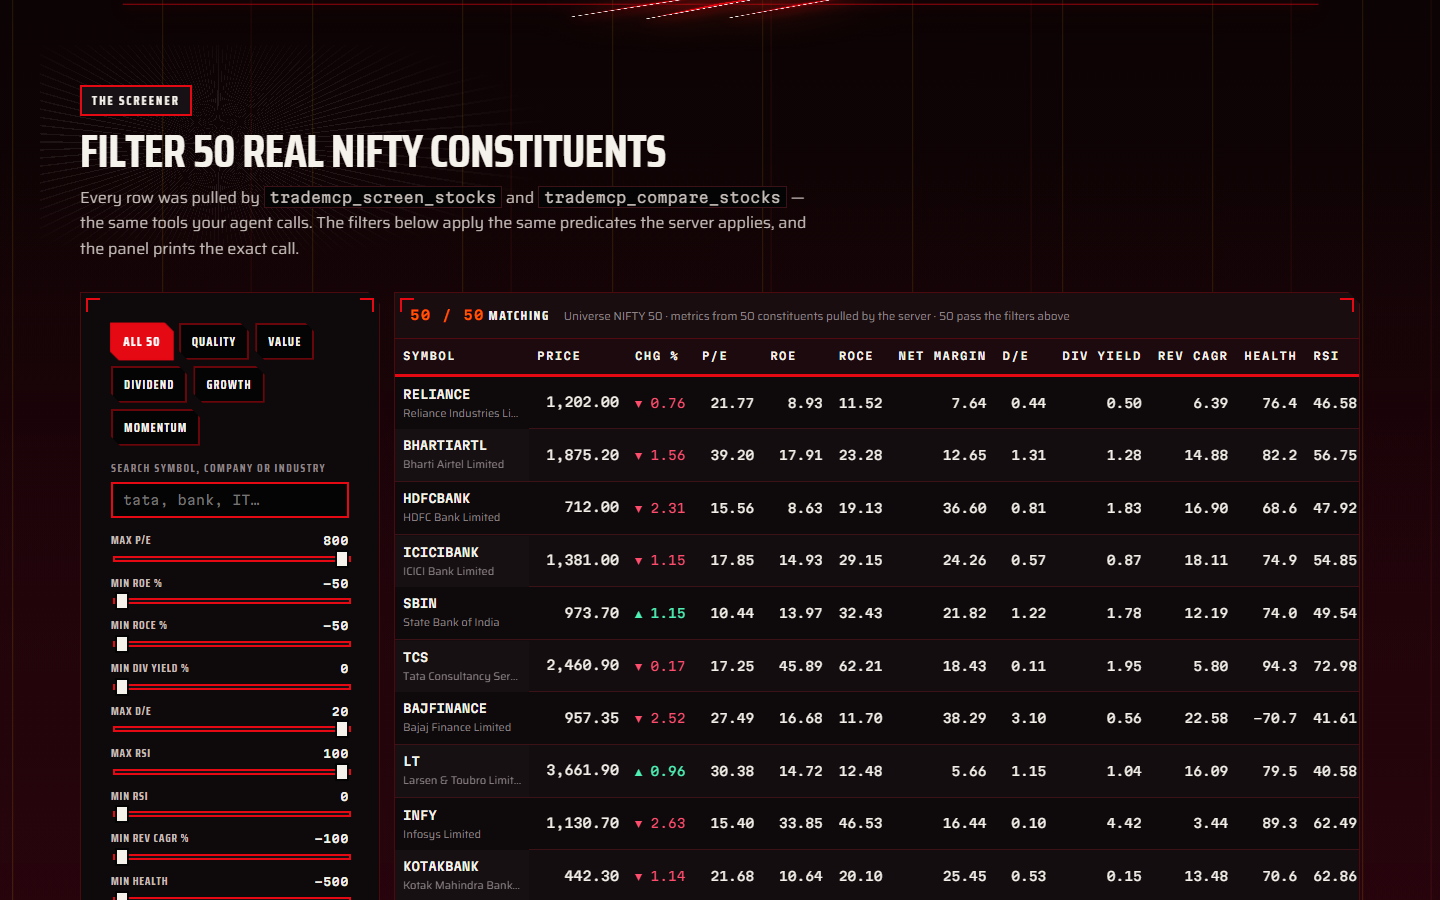
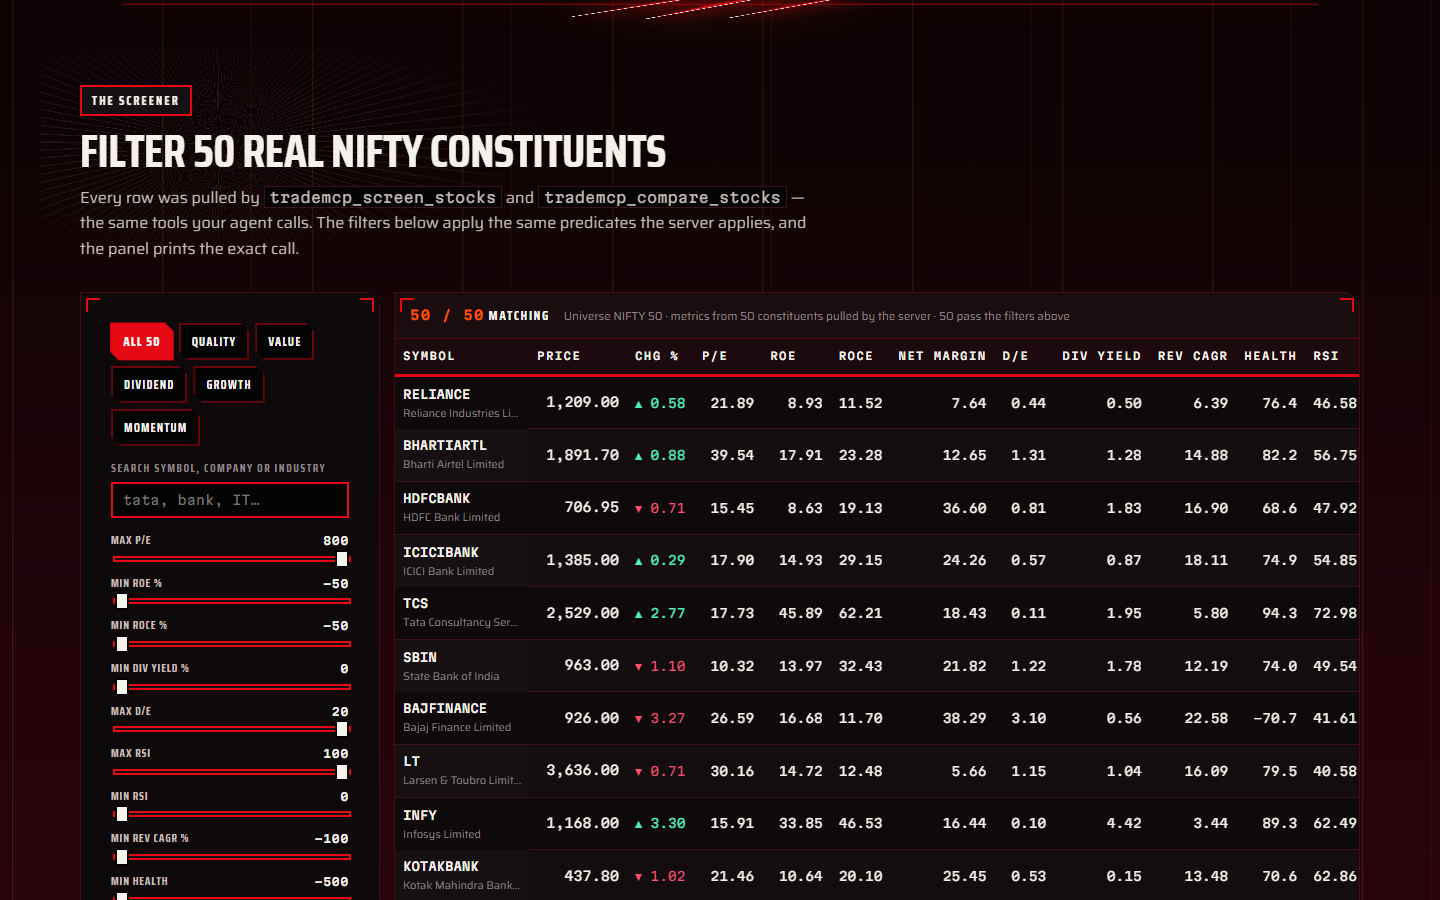
Refresh the screenshots and keep the LinkedIn copy in the repo

diff --git a/showcase/linkedin-post.md b/showcase/linkedin-post.md
@@ -1,0 +1,33 @@
+I built a free Model Context Protocol server for the Indian stock market — and gave it two anime domains because I couldn't help myself.
+
+Most finance MCP servers want an API key, a subscription, or a US ticker universe. TradeMCP wants none of that.
+
+What your agent gets:
+→ 14 tools, over plain MCP stdio
+→ Live NSE/BSE quotes and OHLCV history
+→ 57 technical indicators, 18 candlestick patterns
+→ 54 fundamental ratios — ROCE, DuPont, working-capital days, a 0–100 health score
+→ A screener over NIFTY 50 / 100 / 500
+→ Portfolio analytics: beta, Sharpe, Sortino, drawdown, sector concentration
+
+The part I'm happiest with: every ratio is computed locally from raw statement lines, not scraped off a screen. The numbers are auditable, and they always agree with each other.
+
+Three free public sources — Yahoo Finance, NSE static archives, Screener.in. Two dependencies: mcp and httpx. That's the whole stack.
+
+Now it installs in one line:
+npx -y @aswathas/trademcp
+or, for Claude:
+claude mcp add trademcp -- npx -y @aswathas/trademcp
+
+The demo page has two original themes, "Infinite Void" and "Malevolent Shrine". The Shrine is built from my own art — a temple roof with skulls crowning the live panel, a demon maw around the price, a neon gate frame around the hero. The cleave cutting through the candles is the biggest single-day move in the real series; the flame sits on the best up-day. The 20 seals under the chart are the last 20 sessions, one per day, green when it closed up. Real numbers, dressed up.
+
+The demo refreshes itself now: it calls the same tools your agent calls, so what the page shows is what the agent gets.
+
+MIT licensed. Free to run. No key, no signup, no cost.
+
+Live demo → https://aswathas.github.io/TradeMCP/
+Code → https://github.com/aswathas/TradeMCP
+
+If you point this at one stock tomorrow, which one?
+
+#ModelContextProtocol #MCP #IndianStockMarket #NSE #OpenSource #AI #Quant
